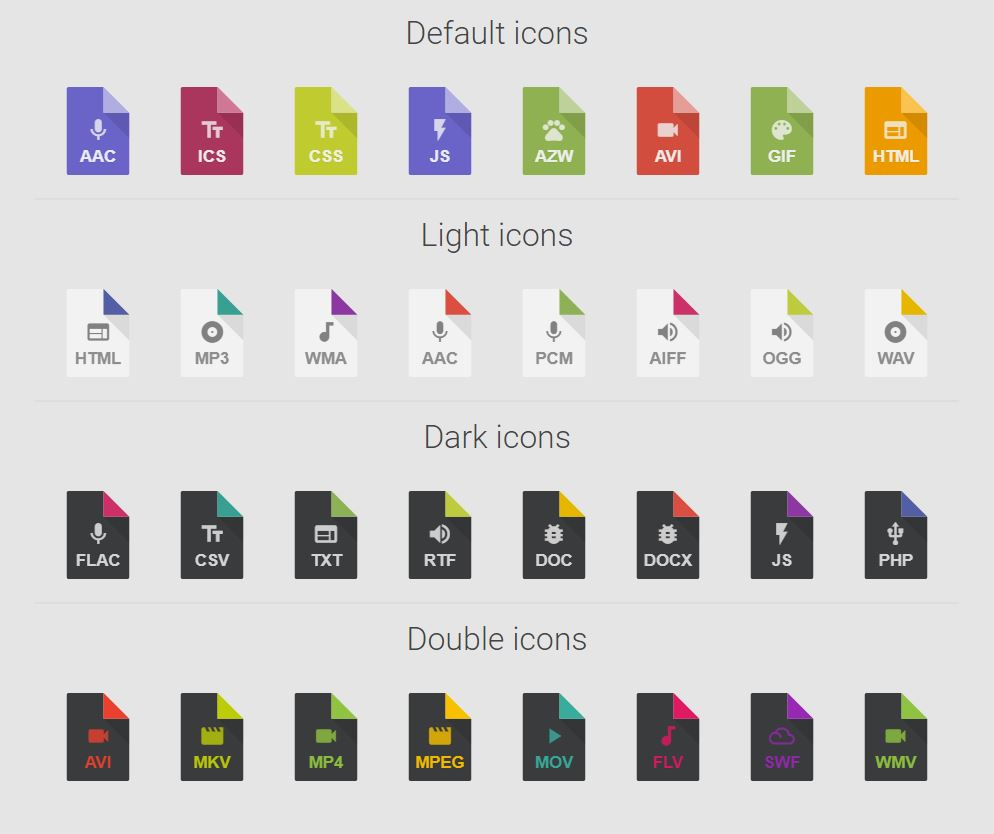
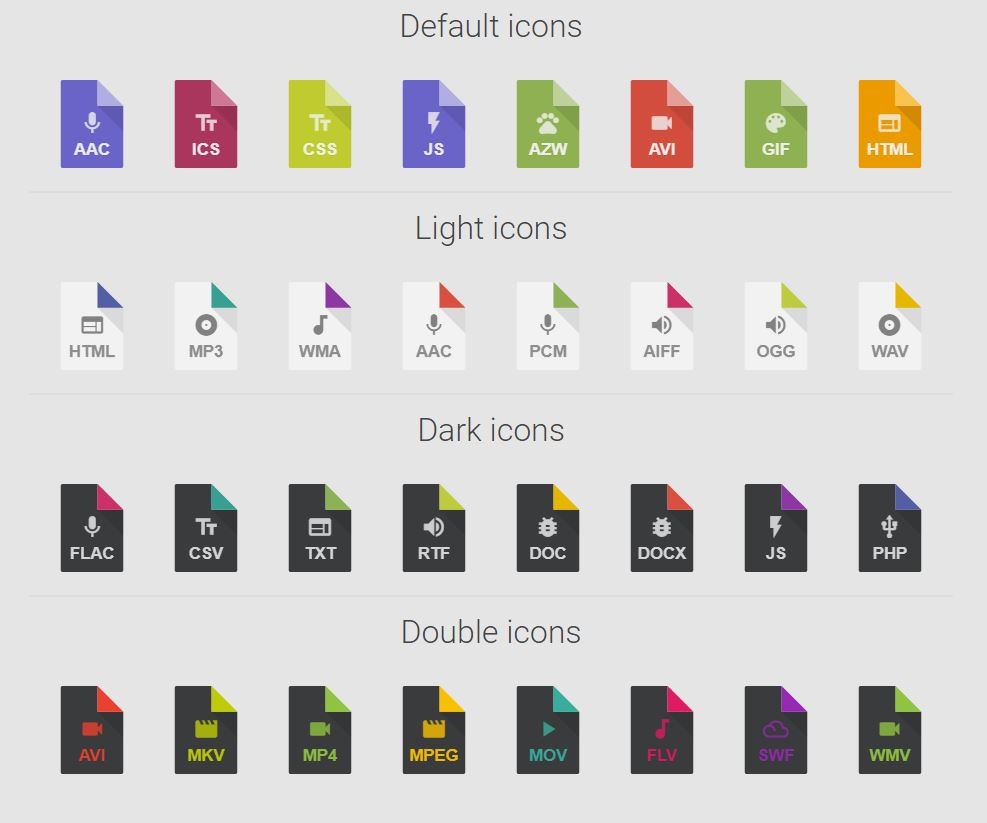
demo responsive style

diff --git a/index.html b/index.html
@@ -12,7 +12,10 @@
       <p>Create easily<b> all the icons you need in supersharp SVG format!</b></p>
     </header>
     <div class="card" style="min-height:460px;">
-      <svg version="1.1" xmlns="http://www.w3.org/2000/svg" xmlns:xlink="http://www.w3.org/1999/xlink" x="0px" y="0px" width="300px" height="300px" viewBox="0 0 200 200" enable-background="new 0 0 200 200" xml:space="preserve" style="	display: inline-block;width: 320px;float: left;margin: 60px 50px 0 0;">
+
+      <h4 class="title">MIME ICONS</h4> 
+
+      <svg version="1.1" xmlns="http://www.w3.org/2000/svg" xmlns:xlink="http://www.w3.org/1999/xlink" x="0px" y="0px" width="300px" height="300px" viewBox="0 0 200 200" enable-background="new 0 0 200 200" xml:space="preserve" class="card-image">  
         <g id="icon">
           <path fill="#cccccc" d="M112.6,58.3V0.1H32.9C30.7,0.1,29,1.8,29,4 v192.2c0,2.1,1.7,3.9,3.9,3.9h134.2c2.1,0,3.9-1.7,3.9-3.9V58.3H112.6z"/>
           <g>
@@ -48,7 +51,7 @@
           <rect x="112.6" display="inline" opacity="0.3" fill="none" stroke="#888888" stroke-width="1" stroke-miterlimit="10" width="58.3" height="58.3"/>
         </g>
       </svg>
-      <h4 style="margin: 60px 0 0;color:#673AB7;">MIME ICONS</h4>      
+     
       <p>Create easily<b> all the icons you need in supersharp SVG format!</b></p>
       <p>Configuration is very fast ... in the $icon-list array you have to enter some parameters like file extension, color (if you want a custom tone), and shape... icons will be automatically generated and you recall them easily in your site or in your app using the class .mime-icon.ico-<code style="display:inline">$fileextension</code>.</p>
       <p><br/>All svg icons are merged into a single css sheet and this allows for a very lightweight file: <b>~600 icon gzipped size is only 16.8kb! less than one 256x256 png icon.</b></p>
@@ -57,7 +60,7 @@
       <div class="demo">
         <h4>Default mixin</h4>
         <p>There are two ways to make a way to make an icon... the first is with the mixin.</p>
-        <p> Its basic form is this <code style="display:inline">&quot;@include do-icon(<b style="color:#673AB7">$color</b>)&quot;</code>.</p>
+        <p> Its basic form is this <code style="display:initial;white-space: initial;">&quot;@include do-icon(<b style="color:#673AB7">$color</b>)&quot;</code>.</p>
         <p>You can specify a color that will be assigned to the icon if no the default color is used (in the Config Section of the scss sheet)</p>
         <pre class="small"><code>.ico-myico .ico:after {
       @include do-icon($color);
@@ -77,7 +80,7 @@
         </div>
         <hr>
         <h4>File extension option</h4>
-        <p>This mixin has a bit of options: the second one is to insert a file extension (directly inside svg)...<br/></b7> to do this you have to add <code style="display:inline">@include do-icon($color, "", <b style="color:#673AB7">$file-extension</b>);</code> to the mixin</p>
+        <p>This mixin has a bit of options: the second one is to insert a file extension (directly inside svg)...<br/></b7> to do this you have to add <code  style="display:initial;white-space: initial;">@include do-icon($color, "", <b style="color:#673AB7">$file-extension</b>);</code> to the mixin</p>
         <pre class="small"><code>@include do-icon($color, &quot;&quot;, &quot;ABC&quot; );</code></pre>
         <div class="mime-icon abc">
           <div class="ico"></div>
@@ -1999,9 +2002,6 @@
     </div>
     <!-- From here onwards, you will find what is needed for this demo page -->
     <link rel="stylesheet" href="https://fonts.googleapis.com/css?family=Roboto:regular,bold,italic,thin,light,bolditalic,black,medium&amp;lang=en">
-
-
     <link rel="stylesheet" href="demo/style.css">
-    <script src="demo/scripts.js"></script>
   </body>
 </html>

diff --git a/demo/style.css b/demo/style.css
@@ -7,6 +7,7 @@ html, body {
 	text-align:center;
 	font-size: 16px;
 	font-weight: 300;
+	overflow-x:hidden;
 }
 header {
 	background: #673AB7;
@@ -52,13 +53,14 @@ hr {
 	border-top: 2px solid #ddd;
 }
 pre {
-	max-width:100%;
-	display: table;
+	width: 100%;
+	display: block;
 	width: auto;
 	margin: auto;
 }
 code {
-	display: inline-block;
+	display: -webkit-inline-box;
+	width: 100%;
 	text-align: left;
 	background: #41a69a;
 	color: #fff;
@@ -74,13 +76,14 @@ pre.small code {
 	background: #dcdcdc;
 	border: 1px solid #cccccc;
 	color: #738481;
+	box-sizing: border-box;
 }
 p code {
 	background: #999;
 	border: 1px solid #777;
 	margin: 0 0 10px;
 	padding: 2px 8px;
-  white-space: nowrap;
+  	white-space: nowrap;
 }
 .align-left {
 	text-align:left;
@@ -105,7 +108,71 @@ div.card {
 	background: white;
 	box-shadow: 0 3px 6px rgba(0,0,0,0.16), 0 3px 6px rgba(0,0,0,0.23);
 }
+
+h4.title {
+	margin: 60px 0 0;
+	color:#673AB7;
+}
 div.credits {
 	font-size:18px;
 	color: #999;
+}
+.card-image {
+	display: inline-block;
+	width: 320px;
+	float: left;
+	margin: 60px 50px 30px 0;
+}
+
+@media (max-width: 1024px) {
+	div.card, div.credits {
+		width:calc(100% - 24px);
+		padding: 12px 12px 24px;
+		box-sizing:border-box;
+		margin: 0 12px;
+	}
+	.demo {
+		padding: 20px;
+	}
+	.card-image {
+		width: 100%;
+		height: 150px;
+		margin: 30px 50px 30px 0;
+	}
+	h4.title {
+		margin: 40px 0 0;
+	}
+	.mime-icon .ico:after {
+      width: 86px;
+      height: 86px;
+	}
+	.mime-icon .ico:before {
+	  font-size:22px;
+	  top: 31px;
+	}
+
+	.mime-icon i.material-icons {
+		font-size:22px;
+	}
+}
+@media (max-width:600px) {
+	header { padding: 16px;margin: 0 0 24px;}
+	html,body { font-size: 16px;}
+	h1 {font-size: 36px;}
+	header p {
+		font-size: 15px;
+	}
+}
+
+@media (max-width: 340px) {
+	html,body { font-size: 15px;}
+	h1 {font-size: 42px;}
+	.mime-icon .ico:after {
+      width: 64px;
+      height: 64px;
+	}
+	.mime-icon .ico:before {
+	  font-size:15px;
+	  top: 25px;
+	}
 }
